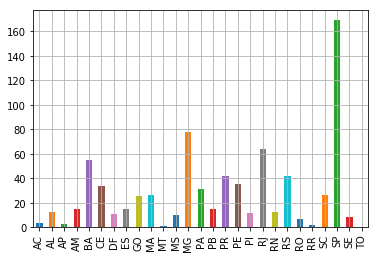
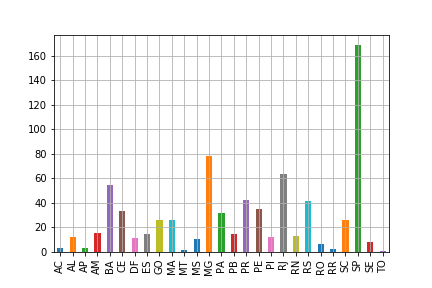
alteração
Adicionado a linha para salvar o gráfico de barras

Changed region(s): [[0.0, 0.031, 0.9894, 0.9922]]

diff --git a/energiaestadual.py b/energiaestadual.py
@@ -35,4 +35,6 @@ dataset = pd.DataFrame(
 print(dataset)
 
 dataset.plot(y='Potência(MW)',kind='bar', legend=False, grid=True)
+plt.savefig('grafico.png')
 plt.show()
+plt.close()
